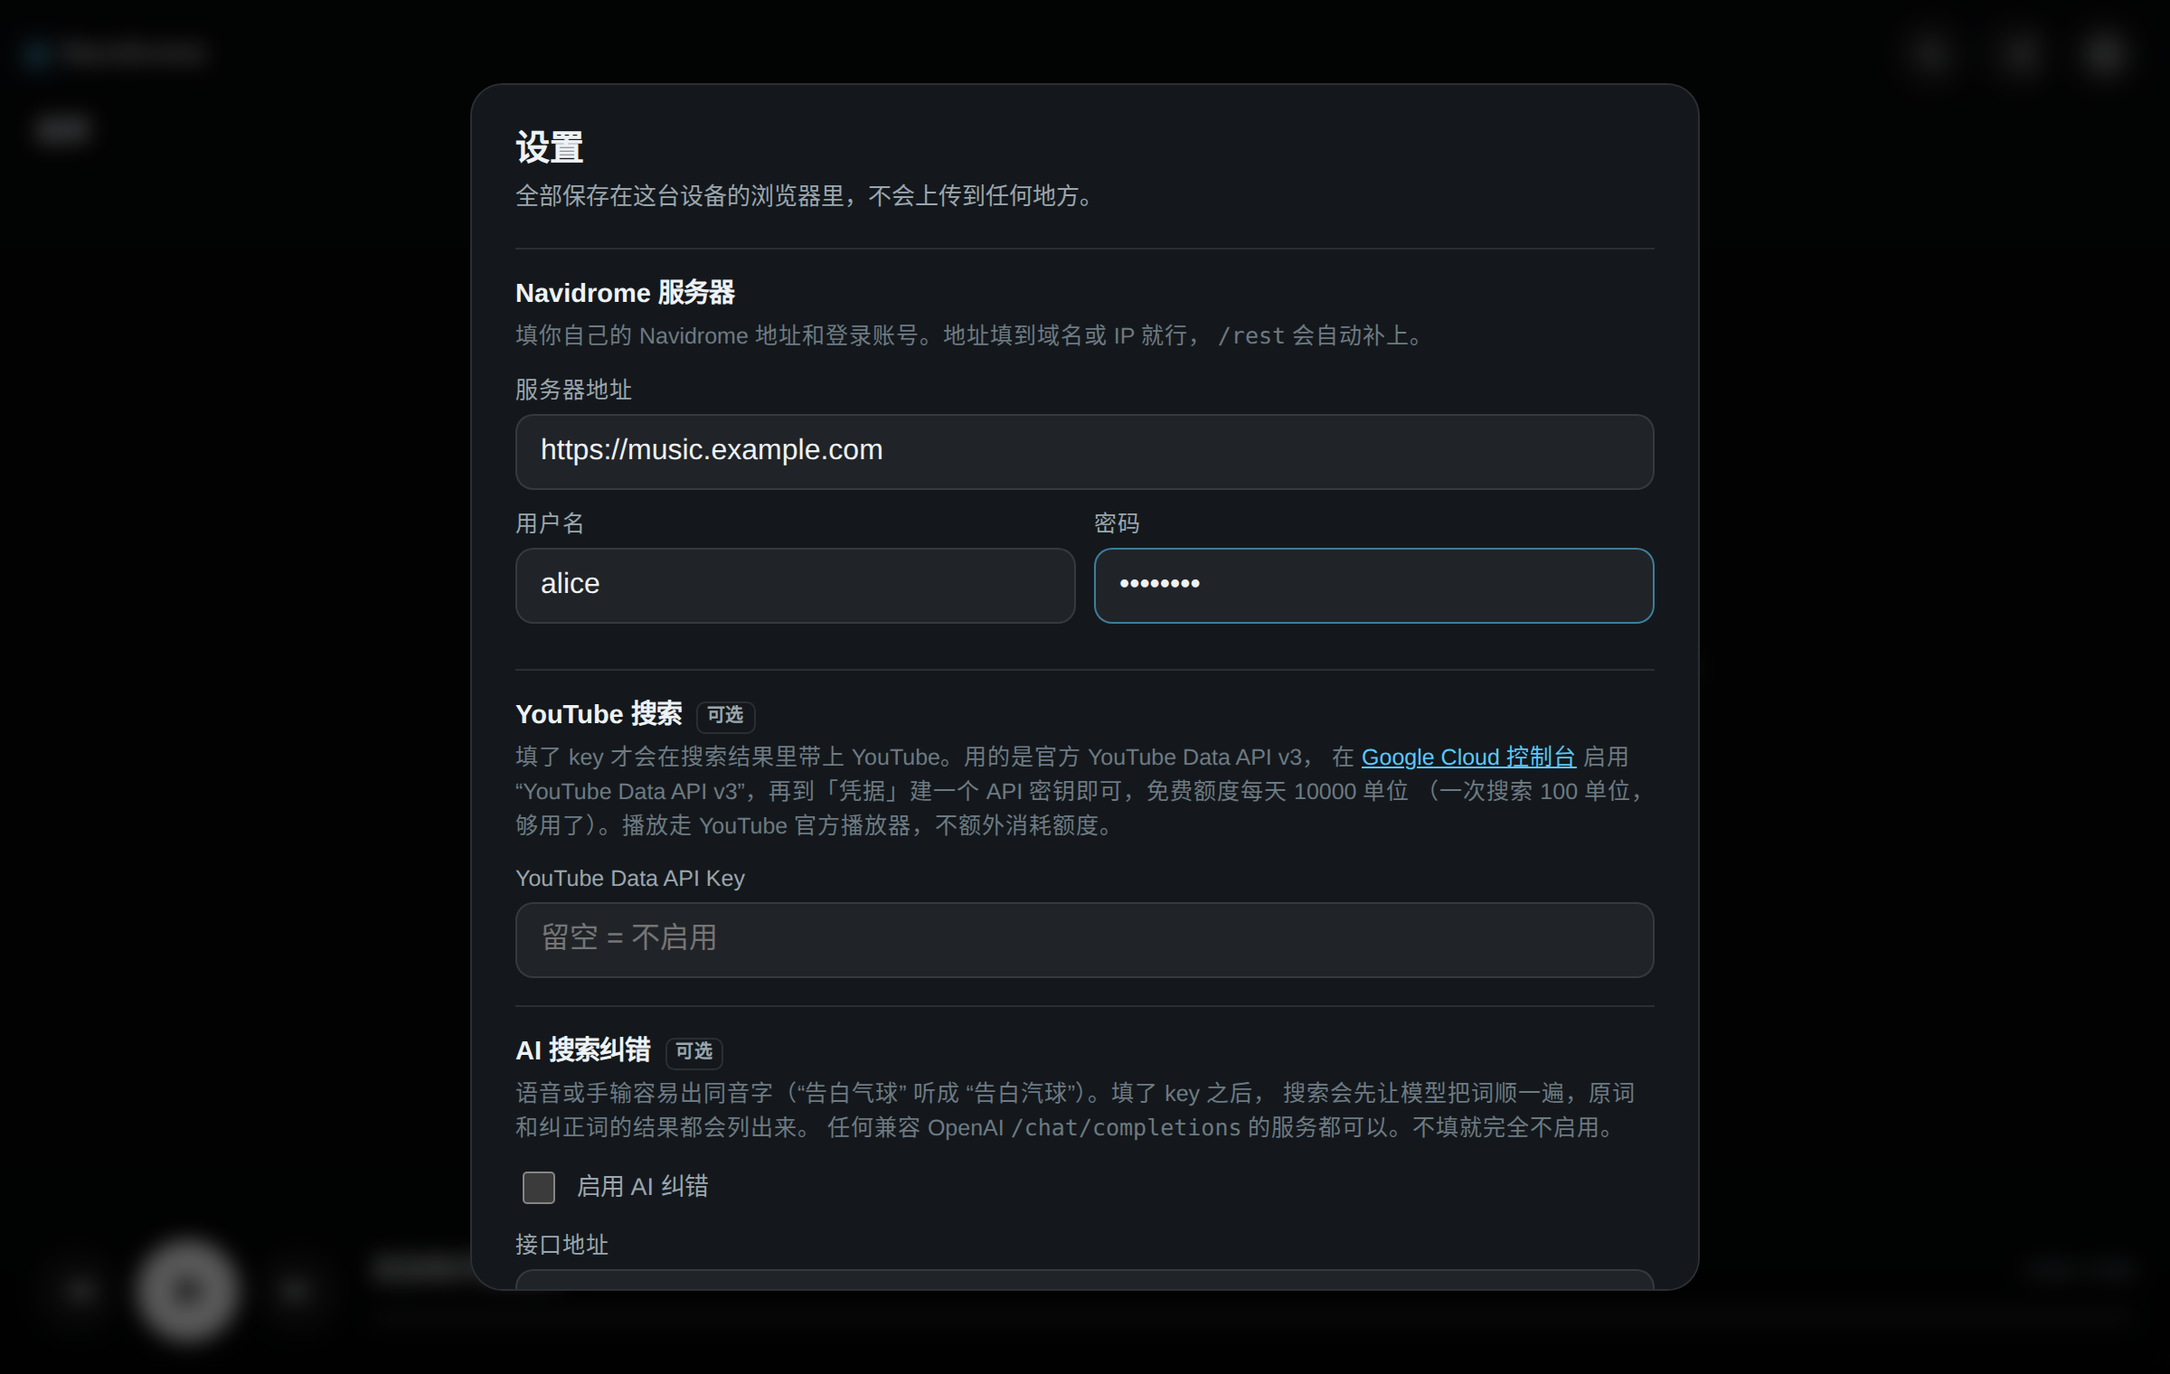
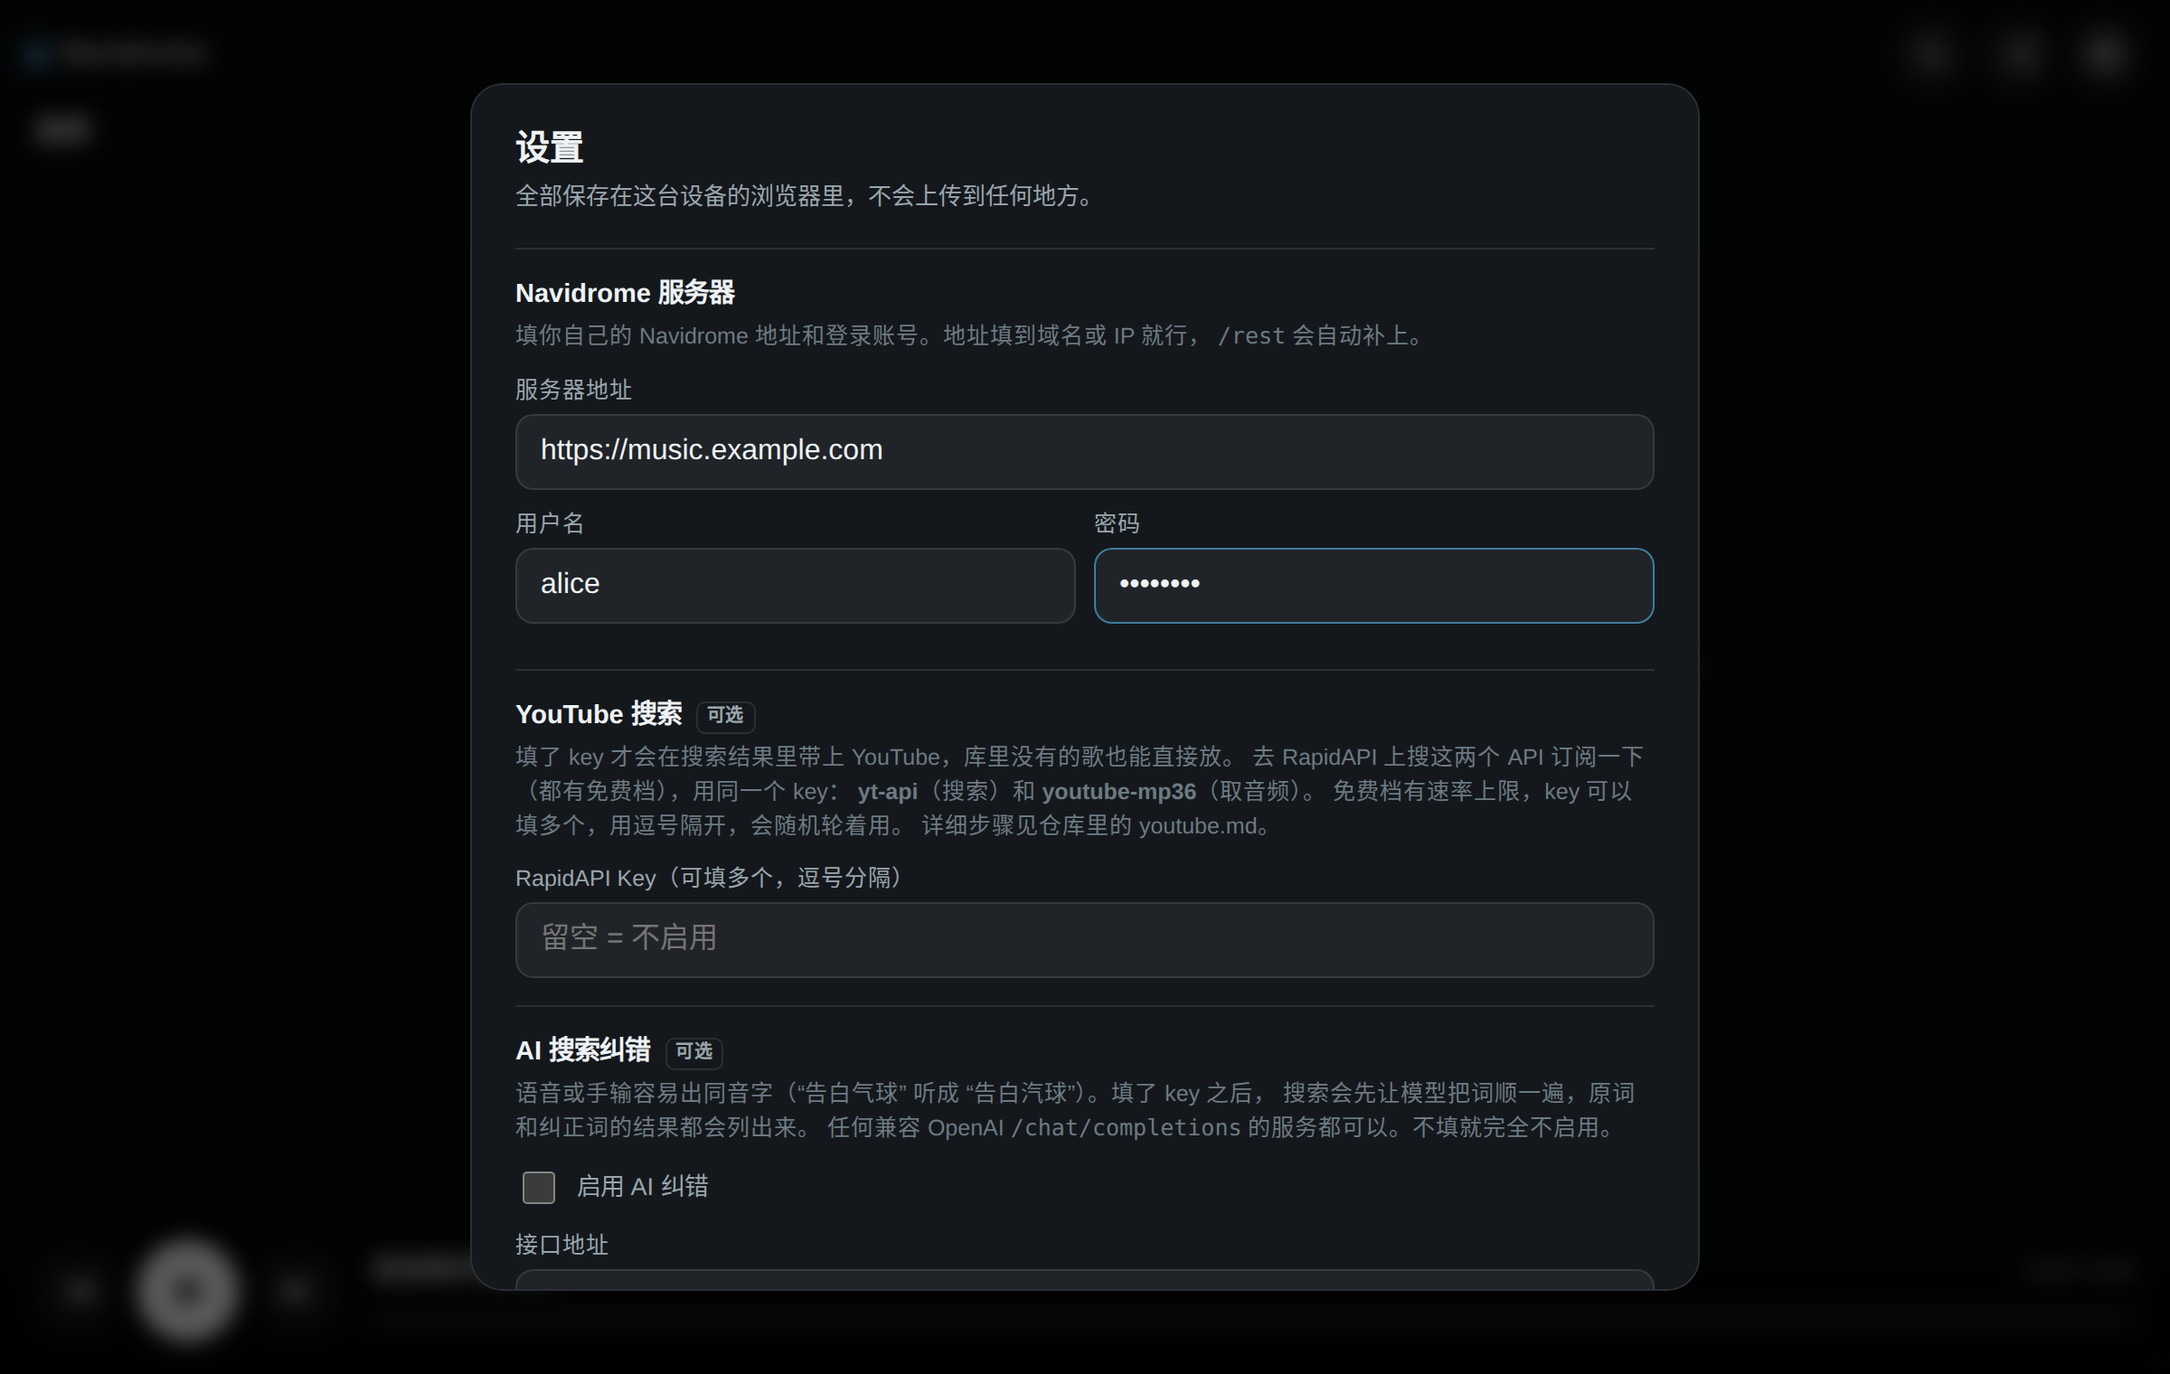
YouTube 改走 RapidAPI，去掉内嵌播放器
原来用 YouTube Data API v3 搜索 + 官方 IFrame 播放器，是因为我以为浏览器里
拿不到直链。实测 RapidAPI 那两个接口都带 CORS、预检也放行 x-rapidapi-key，
可以浏览器直连；youtube-mp36 直接返回可播的 mp3 直链。

所以现在：
- 搜索走 yt-api，取流走 youtube-mp36，全部浏览器直发，无中转
- 播放落到同一个 <audio>，不再嵌 YouTube 播放器 —— 进度条、切歌、快捷键
  跟本地歌曲行为一致，播放引擎也从两套简化回一套
- key 支持填多个（逗号分隔）随机轮用，免费档速率上限下管用
- 转码接口按需转码，先返回 processing 时轮询几次并提示用户

文档只写 API 名称不给链接，让用户自己去 RapidAPI 上搜索认领；
完整开通步骤和排错表见 docs/youtube.md。

实测：搜索出结果，点 YT 条目 3.9 秒出声，无 iframe，无 JS 错误。
未订阅时报错明确（RapidAPI 403：You are not subscribed to this API）。

Changed region(s): [[0.2188, 0.5257, 0.75, 0.6493]]

diff --git a/index.html b/index.html
@@ -255,7 +255,6 @@ button{cursor:pointer;border:0;background:none}
   </div>
 </div>
 
-<div id="ytHost" style="position:fixed;left:-9999px;top:-9999px;width:320px;height:180px"></div>
 <div id="toast"></div>
 
 <div class="mask" id="mask">
@@ -280,12 +279,13 @@ button{cursor:pointer;border:0;background:none}
     <div class="group">
       <h3>YouTube 搜索 <span class="badge">可选</span></h3>
       <p class="hint">
-        填了 key 才会在搜索结果里带上 YouTube。用的是官方 YouTube Data API v3，
-        在 <a href="https://console.cloud.google.com/apis/library/youtube.googleapis.com" target="_blank" rel="noopener">Google Cloud 控制台</a>
-        启用 “YouTube Data API v3”，再到「凭据」建一个 API 密钥即可，免费额度每天 10000 单位
-        （一次搜索 100 单位，够用了）。播放走 YouTube 官方播放器，不额外消耗额度。
+        填了 key 才会在搜索结果里带上 YouTube，库里没有的歌也能直接放。
+        去 RapidAPI 上搜这两个 API 订阅一下（都有免费档），用同一个 key：
+        <b>yt-api</b>（搜索）和 <b>youtube-mp36</b>（取音频）。
+        免费档有速率上限，key 可以填多个，用逗号隔开，会随机轮着用。
+        详细步骤见仓库里的 youtube.md。
       </p>
-      <div class="field"><label>YouTube Data API Key</label>
+      <div class="field"><label>RapidAPI Key（可填多个，逗号分隔）</label>
         <input id="cfgYt" type="password" placeholder="留空 = 不启用" spellcheck="false"></div>
     </div>
 
@@ -449,23 +449,22 @@ let libLoaded = false;
 let idx = -1;               // 当前播放下标
 let shuffled = true;        // 默认随机，开车时不用挑
 let seq = 0;                // 搜索序号，防止慢响应覆盖新结果
-let ytPlayer = null, ytOn = false;   // ytOn = 当前这首走 YouTube 播放器
 
 const cur = () => list[idx] || null;
 const keyOf = it => it ? (it.src || '') + '|' + (it.id || it.videoId || '') : '';
 
-/* 两种播放引擎（本地音频 / YouTube 播放器）统一成一组接口 */
+/* 所有来源最终都落到同一个 <audio>：本地是 Subsonic 的 stream，
+   YouTube 和自建后端各自解析出直链。没有第二套播放器。 */
 const P = {
-  get time() { return ytOn ? (ytPlayer && ytPlayer.getCurrentTime ? ytPlayer.getCurrentTime() : 0) : audio.currentTime; },
+  get time() { return audio.currentTime; },
   get dur()  {
-    if (ytOn) return (ytPlayer && ytPlayer.getDuration ? ytPlayer.getDuration() : 0) || 0;
     if (isFinite(audio.duration) && audio.duration) return audio.duration;
     const c = cur(); return (c && Number(c.duration)) || 0;
   },
-  get paused() { return ytOn ? !(ytPlayer && ytPlayer.getPlayerState && ytPlayer.getPlayerState() === 1) : audio.paused; },
-  play()  { ytOn ? ytPlayer && ytPlayer.playVideo()  : audio.play().catch(() => {}); },
-  pause() { ytOn ? ytPlayer && ytPlayer.pauseVideo() : audio.pause(); },
-  seek(t) { ytOn ? ytPlayer && ytPlayer.seekTo(t, true) : (audio.currentTime = t); },
+  get paused() { return audio.paused; },
+  play()  { audio.play().catch(() => {}); },
+  pause() { audio.pause(); },
+  seek(t) { audio.currentTime = t; },
 };
 
 /* ---------- 背景：封面高斯模糊，两层交叉淡入 ---------- */
@@ -583,6 +582,7 @@ function markPlaying() {
 /* ---------- 取流地址 ---------- */
 async function streamUrl(it) {
   if (it.src === 'lib') return sub('stream', 'id=' + enc(it.id) + '&format=raw');
+  if (it.src === 'yt')  return ytStream(it.videoId);
   if (it.src === 'ext') {
     const r = await fetch(extBase() + '/play?' + new URLSearchParams(it.play || { id: it.id })).then(r => r.json());
     if (!r || !r.url) throw new Error('外部后端没返回播放地址');
@@ -601,10 +601,8 @@ async function play(i) {
   setBackground(coverOf(it, 600));
   loadLyrics(it);
 
-  if (it.src === 'yt') { ytOn = true; audio.pause(); return playYouTube(it); }
-
-  ytOn = false;
-  if (ytPlayer && ytPlayer.stopVideo) ytPlayer.stopVideo();
+  // YouTube 要先换一个直链，慢的时候得让用户知道在干嘛
+  if (it.src === 'yt') toast('正在取 YouTube 音频…', 8000);
   try {
     audio.src = await streamUrl(it);
     audio.load();
@@ -632,42 +630,6 @@ audio.addEventListener('ended', () => next());
 
 function next() { if (list.length) play((idx + 1) % list.length); }
 function prev() { if (list.length) play((idx - 1 + list.length) % list.length); }
-
-/* ---------- YouTube 播放：走官方 IFrame 播放器 ----------
-   浏览器里没法把 YouTube 解成直链，所以播放交给官方播放器（藏在屏幕外，只要声音）。
-   这条路不消耗 Data API 配额，配额只花在搜索上。 */
-let ytApiPromise = null;
-function ytApi() {
-  if (ytApiPromise) return ytApiPromise;
-  ytApiPromise = new Promise((resolve, reject) => {
-    if (window.YT && window.YT.Player) return resolve();
-    window.onYouTubeIframeAPIReady = resolve;
-    const s = document.createElement('script');
-    s.src = 'https://www.youtube.com/iframe_api';
-    s.onerror = () => reject(new Error('加载 YouTube 播放器失败（网络不通？）'));
-    document.head.appendChild(s);
-    setTimeout(() => reject(new Error('加载 YouTube 播放器超时')), 15000);
-  }).then(() => new Promise(resolve => {
-    if (ytPlayer) return resolve();
-    ytPlayer = new YT.Player('ytHost', {
-      height: '180', width: '320',
-      playerVars: { playsinline: 1, controls: 0, disablekb: 1 },
-      events: {
-        onReady: () => resolve(),
-        onStateChange: e => {
-          if (e.data === YT.PlayerState.ENDED) next();
-          if (ytOn) setPlayIcon(e.data === YT.PlayerState.PLAYING);
-        },
-        onError: () => toast('这个视频不让外部播放，换一条试试'),
-      },
-    });
-  }));
-  return ytApiPromise;
-}
-async function playYouTube(it) {
-  try { await ytApi(); ytPlayer.loadVideoById(it.videoId); ytPlayer.playVideo(); setPlayIcon(true); }
-  catch (e) { toast(e.message); }
-}
 
 /* ---------- 歌词 ---------- */
 let lyrics = [], lineIdx = -1;
@@ -858,19 +820,52 @@ async function searchLocal(q) {
   return ((b.searchResult3 && b.searchResult3.song) || []).map(fromSubsonic);
 }
 
-/* YouTube Data API v3。只搜索，不取流——播放交给官方播放器。 */
+/* ---------- YouTube（RapidAPI，浏览器直连）----------
+   两个接口都带 CORS，预检也放行 x-rapidapi-key，所以不需要任何中转层。
+   搜索走 yt-api，取流走 youtube-mp36 换一个 mp3 直链，直接塞进 <audio>，
+   不嵌播放器。key 可以填多个（逗号或换行分隔），每次随机挑一个——
+   免费档有硬性速率上限，多备几个能少撞墙。 */
+const ytKeys = () => (cfg.yt || '').split(/[\s,]+/).filter(Boolean);
+
+async function rapid(host, path) {
+  const keys = ytKeys();
+  if (!keys.length) throw new Error('还没填 RapidAPI key');
+  const key = keys[Math.floor(Math.random() * keys.length)];
+  const r = await fetch('https://' + host + path, {
+    headers: { 'x-rapidapi-host': host, 'x-rapidapi-key': key },
+  });
+  const d = await r.json().catch(() => null);
+  if (!r.ok) throw new Error('RapidAPI ' + r.status + (d && d.message ? '：' + String(d.message).slice(0, 60) : ''));
+  return d || {};
+}
+
+const hmsToSec = t => {
+  const parts = String(t || '').split(':').map(Number);
+  return parts.length && !parts.some(isNaN) ? parts.reduce((a, b) => a * 60 + b, 0) : 0;
+};
+
 async function searchYouTube(q) {
-  if (!cfg.yt) return [];
-  const url = 'https://www.googleapis.com/youtube/v3/search' +
-    '?part=snippet&type=video&videoCategoryId=10&maxResults=12&q=' + enc(q) + '&key=' + enc(cfg.yt);
-  const d = await fetch(url).then(r => r.json());
-  if (d.error) throw new Error('YouTube：' + ((d.error.errors && d.error.errors[0] && d.error.errors[0].reason) || d.error.message || '请求被拒'));
-  return (d.items || []).filter(v => v.id && v.id.videoId).map(v => ({
-    src: 'yt', videoId: v.id.videoId,
-    title: (v.snippet.title || '').replace(/&(amp|quot|#39);/g, m => ({'&amp;':'&','&quot;':'"','&#39;':"'"}[m] || m)),
-    artist: v.snippet.channelTitle || '',
-    cover: ((v.snippet.thumbnails || {}).medium || (v.snippet.thumbnails || {}).default || {}).url || '',
+  if (!ytKeys().length) return [];
+  const d = await rapid('yt-api.p.rapidapi.com', '/search?query=' + enc(q));
+  return ((d && d.data) || []).filter(v => v.type === 'video' && v.videoId).map(v => ({
+    src: 'yt', videoId: v.videoId,
+    title: v.title || '', artist: v.channelTitle || '',
+    duration: hmsToSec(v.lengthText),
+    cover: (v.thumbnail && v.thumbnail[0] && v.thumbnail[0].url) || '',
   }));
+}
+
+/* 换直链。这个接口按需转码，第一次点某首歌可能先返回 processing，等几秒再问一次。 */
+async function ytStream(videoId, tries) {
+  tries = tries || 4;
+  for (let i = 0; i < tries; i++) {
+    const d = await rapid('youtube-mp36.p.rapidapi.com', '/dl?id=' + enc(videoId));
+    if (d.status === 'ok' && d.link) return d.link;
+    if (d.status !== 'processing') throw new Error('YouTube：' + (d.msg || d.status || '取流失败'));
+    toast('YouTube 正在转码，再等等…', 4000);
+    await new Promise(r => setTimeout(r, 3000));
+  }
+  throw new Error('YouTube 转码太久了，换一条试试');
 }
 
 /* 自建后端（可选）。约定见 docs/backend-api.md。 */
@@ -936,7 +931,7 @@ async function doSearch(raw) {
   // ③ 插件并行，各自失败互不影响
   const jobs = [];
   terms.forEach(t => {
-    if (cfg.yt) jobs.push(searchYouTube(t).then(push).catch(e => toast(e.message)));
+    if (ytKeys().length) jobs.push(searchYouTube(t).then(push).catch(e => toast(e.message)));
     if (extBase()) jobs.push(searchExt(t).then(push).catch(() => {}));
   });
   await Promise.all(jobs);

diff --git a/docs/youtube.md b/docs/youtube.md
@@ -1,0 +1,68 @@
+# YouTube 搜索怎么开
+
+默认是关的。不填 key 就完全不启用，一个请求都不会发。
+
+开了之后，搜索结果里会多出带 `YT` 角标的条目，库里没有的歌可以直接点开就放。
+播放的是解析出来的音频直链，走的还是播放器自己的 `<audio>`，**不嵌 YouTube 播放器**，
+所以进度条、上一首下一首、方向键这些跟本地歌曲的行为完全一样。
+
+## 需要什么
+
+两个跑在 RapidAPI 上的第三方 API，都有免费档：
+
+| API 名称 | 干什么 |
+|---|---|
+| **yt-api** | 搜索，返回视频列表 |
+| **youtube-mp36** | 把某个视频转成可直接播放的音频链接 |
+
+去 RapidAPI 上**按名字搜这两个**订阅即可（这里不放链接，同名的 API 有不少，
+自己搜一下认准提供方，也顺便看看当前的免费额度）。
+
+## 步骤
+
+1. 注册一个 RapidAPI 账号
+2. 搜 **yt-api**，进去点 **Subscribe to Test**，选免费档（通常叫 Basic）
+3. 搜 **youtube-mp36**，同样订阅免费档
+4. 在任意一个 API 页面的代码示例里，把 `X-RapidAPI-Key` 那一串复制出来
+5. 打开播放器 → 右上角齿轮 → **YouTube 搜索** → 粘贴进去 → 保存
+
+**两个 API 共用同一个 key。** RapidAPI 的 key 是账号级的，不是每个 API 一个，
+所以只要填一次；但两个 API 都必须各自订阅过，否则调用会被拒。
+
+## 关于免费额度
+
+免费档有每月请求数和每秒速率的双重上限，具体数字以 RapidAPI 页面上写的为准
+（会变）。日常自己听基本够，但如果你搜得比较猛，可能会撞到速率限制。
+
+**key 可以填多个**，用逗号或换行隔开：
+
+```
+key-A, key-B
+```
+
+每次请求会随机挑一个用。多个 RapidAPI 账号的 key 混着放能把额度摊开。
+
+## 用起来是什么感觉
+
+- 搜索：和本地库一起出结果，本地的先出（不用等网络），YouTube 的随后补进来
+- 播放：第一次点某首歌时，转码接口可能先返回「正在处理」，界面会提示
+  「YouTube 正在转码，再等等…」，通常几秒钟，之后再点同一首就很快了
+- 歌词：YouTube 的条目没有歌词，右边会显示封面和标题
+
+## 出问题了怎么看
+
+界面右上角会弹提示，对着看：
+
+| 提示 | 什么情况 |
+|---|---|
+| `还没填 RapidAPI key` | 设置里是空的 |
+| `RapidAPI 403` | 这个 API 没订阅，或者 key 抄错了。注意两个 API 都要订阅 |
+| `RapidAPI 429` | 撞到速率上限了，等一会儿，或者多配几个 key |
+| `YouTube 转码太久了，换一条试试` | 转码接口一直在 processing。换个视频，或者过一会儿再点 |
+| 搜索没有 YT 结果，但也没报错 | key 是空的，或者搜索词确实没命中 |
+
+## 一点说明
+
+这两个 API 是第三方服务，不归本项目控制，它们随时可能改接口、改价格或者下线。
+key 是你自己的，只存在你自己浏览器的 localStorage 里，请求也是浏览器直接发给
+RapidAPI 的，不经过任何中间服务器。

diff --git a/README.md b/README.md
@@ -48,15 +48,20 @@ Navidrome 的 Subsonic 接口默认就带 `Access-Control-Allow-Origin: *`，所
 
 ### YouTube 搜索
 
-填了 key 之后，搜索结果里会一并带上 YouTube 的条目，库里没有的歌也能直接放。
+填了 key 之后，搜索结果里会一并带上 YouTube 的条目，库里没有的歌也能直接点开就放。
 
-key 自己申请，免费：
+播放的是解析出来的音频直链，还是走播放器自己的 `<audio>`，**不嵌 YouTube 播放器**——
+进度条、切歌、快捷键这些跟本地歌曲行为完全一致。
 
-1. 打开 [Google Cloud 控制台](https://console.cloud.google.com/apis/library/youtube.googleapis.com)，启用 **YouTube Data API v3**
-2. 左边「凭据」→ 创建凭据 → API 密钥
-3. 把密钥填进设置里的 YouTube 那一栏
+要两个跑在 RapidAPI 上的第三方 API，都有免费档，去 RapidAPI 上**按名字搜**订阅就行：
 
-免费额度每天 10000 单位，一次搜索算 100 单位，也就是每天 100 次搜索，个人用绰绰有余。播放走 YouTube 官方播放器，不额外消耗额度。
+- **yt-api** —— 搜索
+- **youtube-mp36** —— 把视频转成可直接播放的音频链接
+
+两个共用同一个 RapidAPI key（账号级的），但**两个都要各自订阅**。key 可以填多个、
+逗号隔开，会随机轮着用，免费档撞速率限制时管用。
+
+完整步骤和排错见 [docs/youtube.md](docs/youtube.md)。
 
 ### AI 搜索纠错
 
